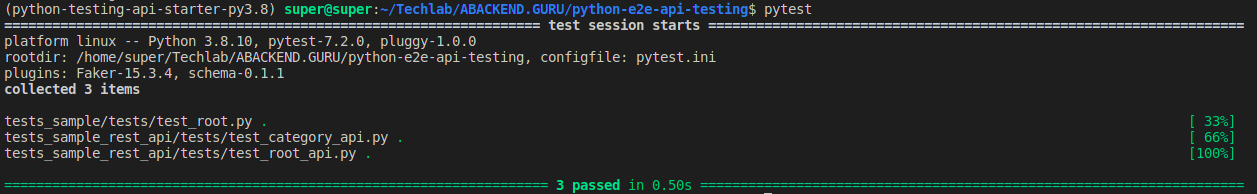
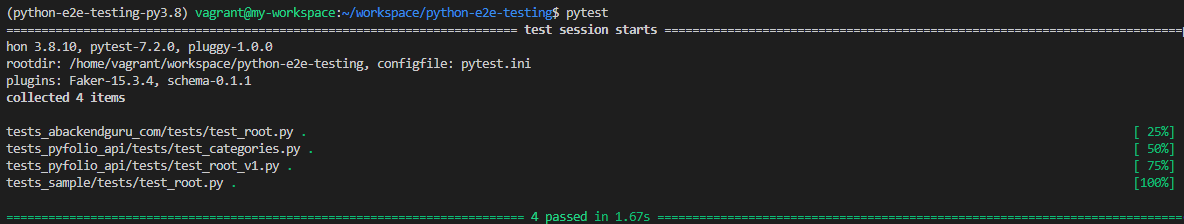
Setup e2e api testing project

diff --git a/tests_pyfolio_api/tests/test_categories.py b/tests_pyfolio_api/tests/test_categories.py
@@ -1,0 +1,46 @@
+from faker import Faker
+from pytest_schema import schema, Or
+from ..testcase import client
+
+fake = Faker()
+
+caregory = {
+    "id": int,
+    "title": str,
+    "slug": str,
+    "icon": Or(None, str),
+    "image": Or(None, str),
+    "description": Or(None, str),
+    "is_active": bool,
+    "created_at": Or(None, str),
+    "updated_at": Or(None, str),
+}
+
+category_detail_structure = {
+    "message": Or(None, str),
+    "data": caregory
+}
+
+category_list_structure = {
+    "message": Or(None, str),
+    "data": {
+        "total": int,
+        "limit": int,
+        "skip": int,
+        "total_page": int,
+        "next_page_link": Or(None, str),
+        "items": [
+            caregory
+        ]
+    }
+}
+
+
+
+class TestCategoryApi:
+
+    def test_read_category_list(self):
+        response = client.get("/v1/categories")
+        data = response.json()
+        assert response.status_code == 200
+        assert schema(category_list_structure) == data

diff --git a/tests_pyfolio_api/tests/test_root_v1.py b/tests_pyfolio_api/tests/test_root_v1.py
@@ -1,9 +1,9 @@
 from ..testcase import client
 
 
-class TestRoot():
+
+class TestUserInfo():
 
     def test_read_root(self):
         response = client.get("/v1/")
         assert response.status_code == 200
-        assert response.json() == {"message": "Welcome to Pyfolio API V1!"}

diff --git a/tests_abackendguru_com/tests/test_root.py b/tests_abackendguru_com/tests/test_root.py
@@ -1,0 +1,8 @@
+from ..testcase import client
+
+
+class TestRoot():
+
+    def test_read_root(self):
+        response = client.get("/")
+        assert response.status_code == 200

diff --git a/tests_pyfolio_api/testcase.py b/tests_pyfolio_api/testcase.py
@@ -1,0 +1,4 @@
+from e2etests.testclient import TestClient
+from .configs import REST_API_BASE_URL
+
+client = TestClient(REST_API_BASE_URL)

diff --git a/tests_sample/configs.py b/tests_sample/configs.py
@@ -1,1 +1,1 @@
-REST_API_BASE_URL: str = 'https://abackendguru.com'
+REST_API_BASE_URL: str = 'https://ethanvu.dev'

diff --git a/tests_abackendguru_com/configs.py b/tests_abackendguru_com/configs.py
@@ -1,0 +1,1 @@
+REST_API_BASE_URL: str = 'https://abackendguru.com'

diff --git a/README.md b/README.md
@@ -1,29 +1,12 @@
 # Python E2e API Testing
 
-Starter template for quickstart API Testing with Pytests, Flake8.
+Starter template for quickstart API Testing with Pytests, Requests, Flake8.
 
 Forcusing on testing for the API support Restful and Graphql with most popular cases.
 
 The tests is place in the sample directory so you can reference anytime.
 
 For your application just create new directory named `myapp` or any thing you want.
-
-## Sample
-
-In this project, we will write the test cases for sample api named: sample-rest.abackend.guru.
-
-
-### Test Google home
-
-```shell
-pytest tests_google
-```
-
-### Test Github API
-
-```shell
-pytest tests_github
-```
 
 ## Quickstart
 
@@ -40,15 +23,13 @@ Run tests
 pytest
 ```
 
-
 Result
 
 ![Python e2e api testing](screenshot.png)
 
+### Start new E2E Test project
 
-### To start new E2E Test project
-
-Just copy the `tests_sample` directory and write your test cases.
+Just copy the `tests_sample` directory, change base url and write your test cases.
 
 ```shell
 cp tests_sample tests_<your_project_name>
@@ -57,28 +38,25 @@ pytest tests_<your_project_name>
 
 Example:
 
+**Create e2e tests for abackendguru.com site.**
+
+Step 1: Copy test sample
+
 ```shell
 cp -r tests_sample/ tests_abackendguru_com
 pytest tests_abackendguru_com
 ```
 
-## Features
+Step 2: Change base url in tests/configs.py
 
-### Restful API Tests
-
-- [ ] 1. Testing HTTP call GET, POST, PUT, DELETE and more.
-- [ ] 2. Testing file upload.
-
-### GraphQL API Tests
-
-updating...
-
-## Run tests
-
-Run tests ny this command
-
-```shell
-pytest
+```python
+REST_API_BASE_URL: str = 'https://abackendguru.com'
 ```
 
-## Quickstart your E2E API Testing project
+Step 3: Run tests
+
+```shell
+pytest tests_abackendguru_com
+```
+
+![E2E Testing A Backend Guru](screenshot-2.png)
